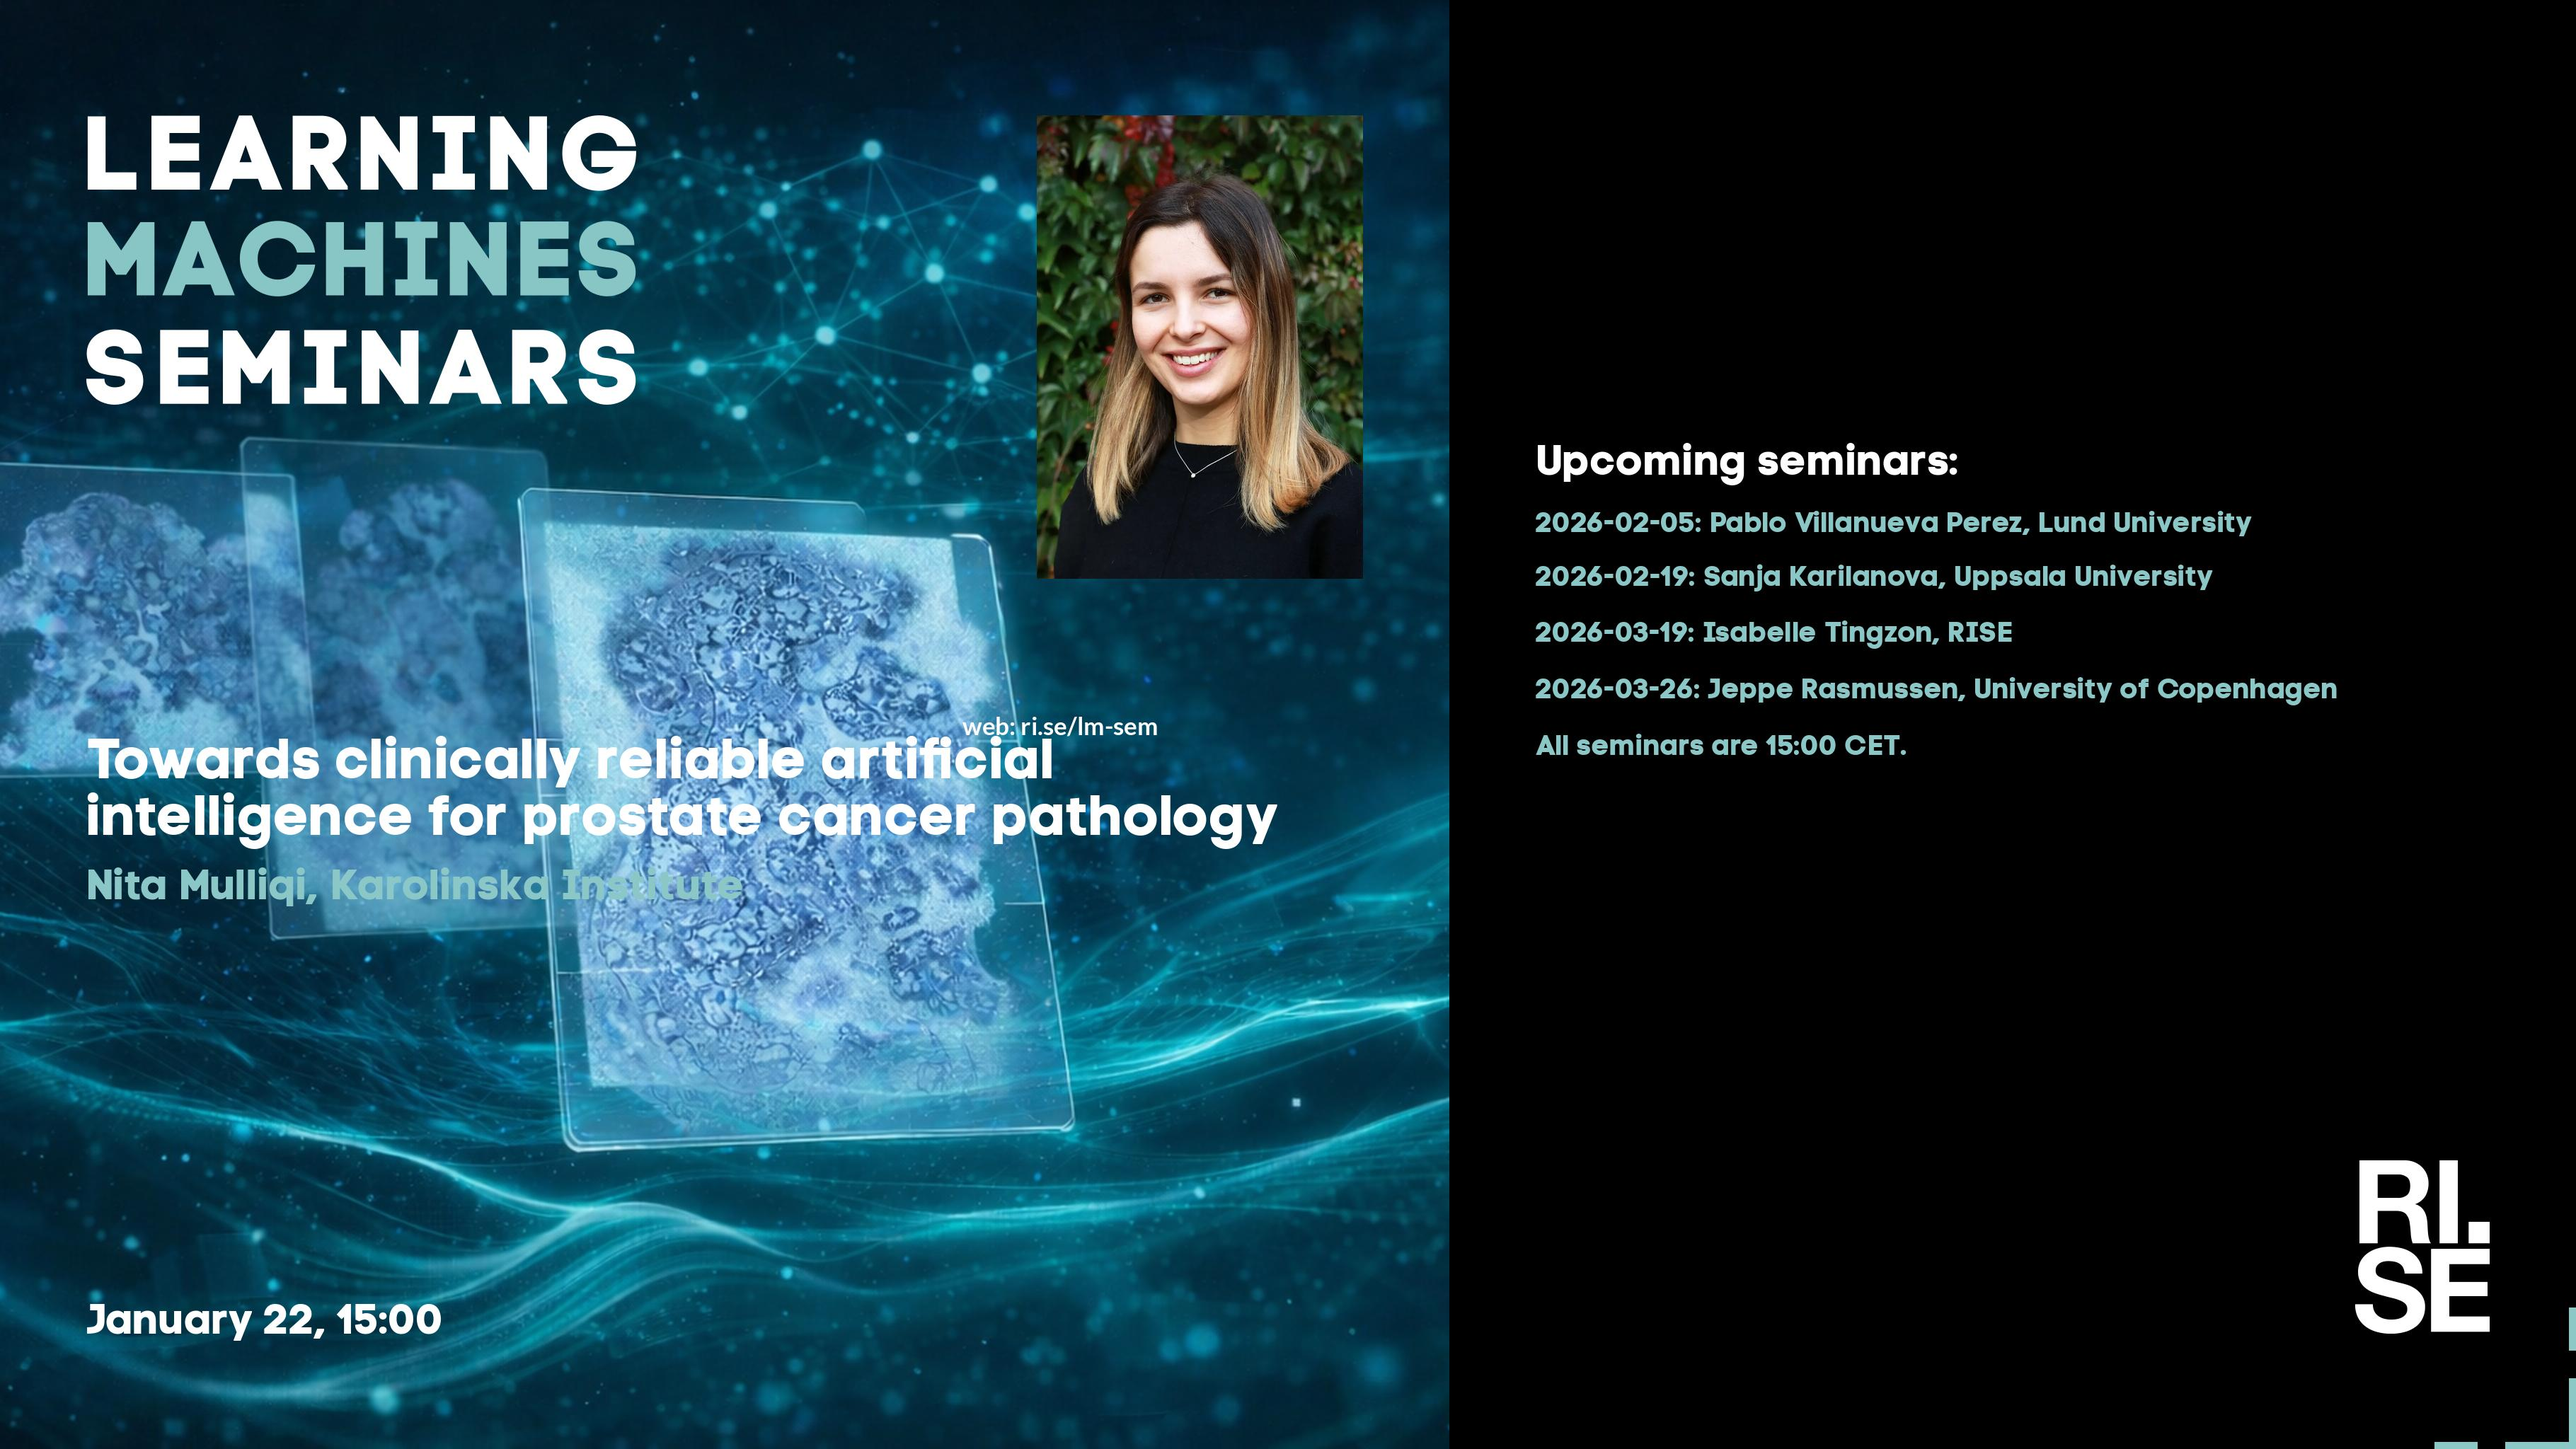
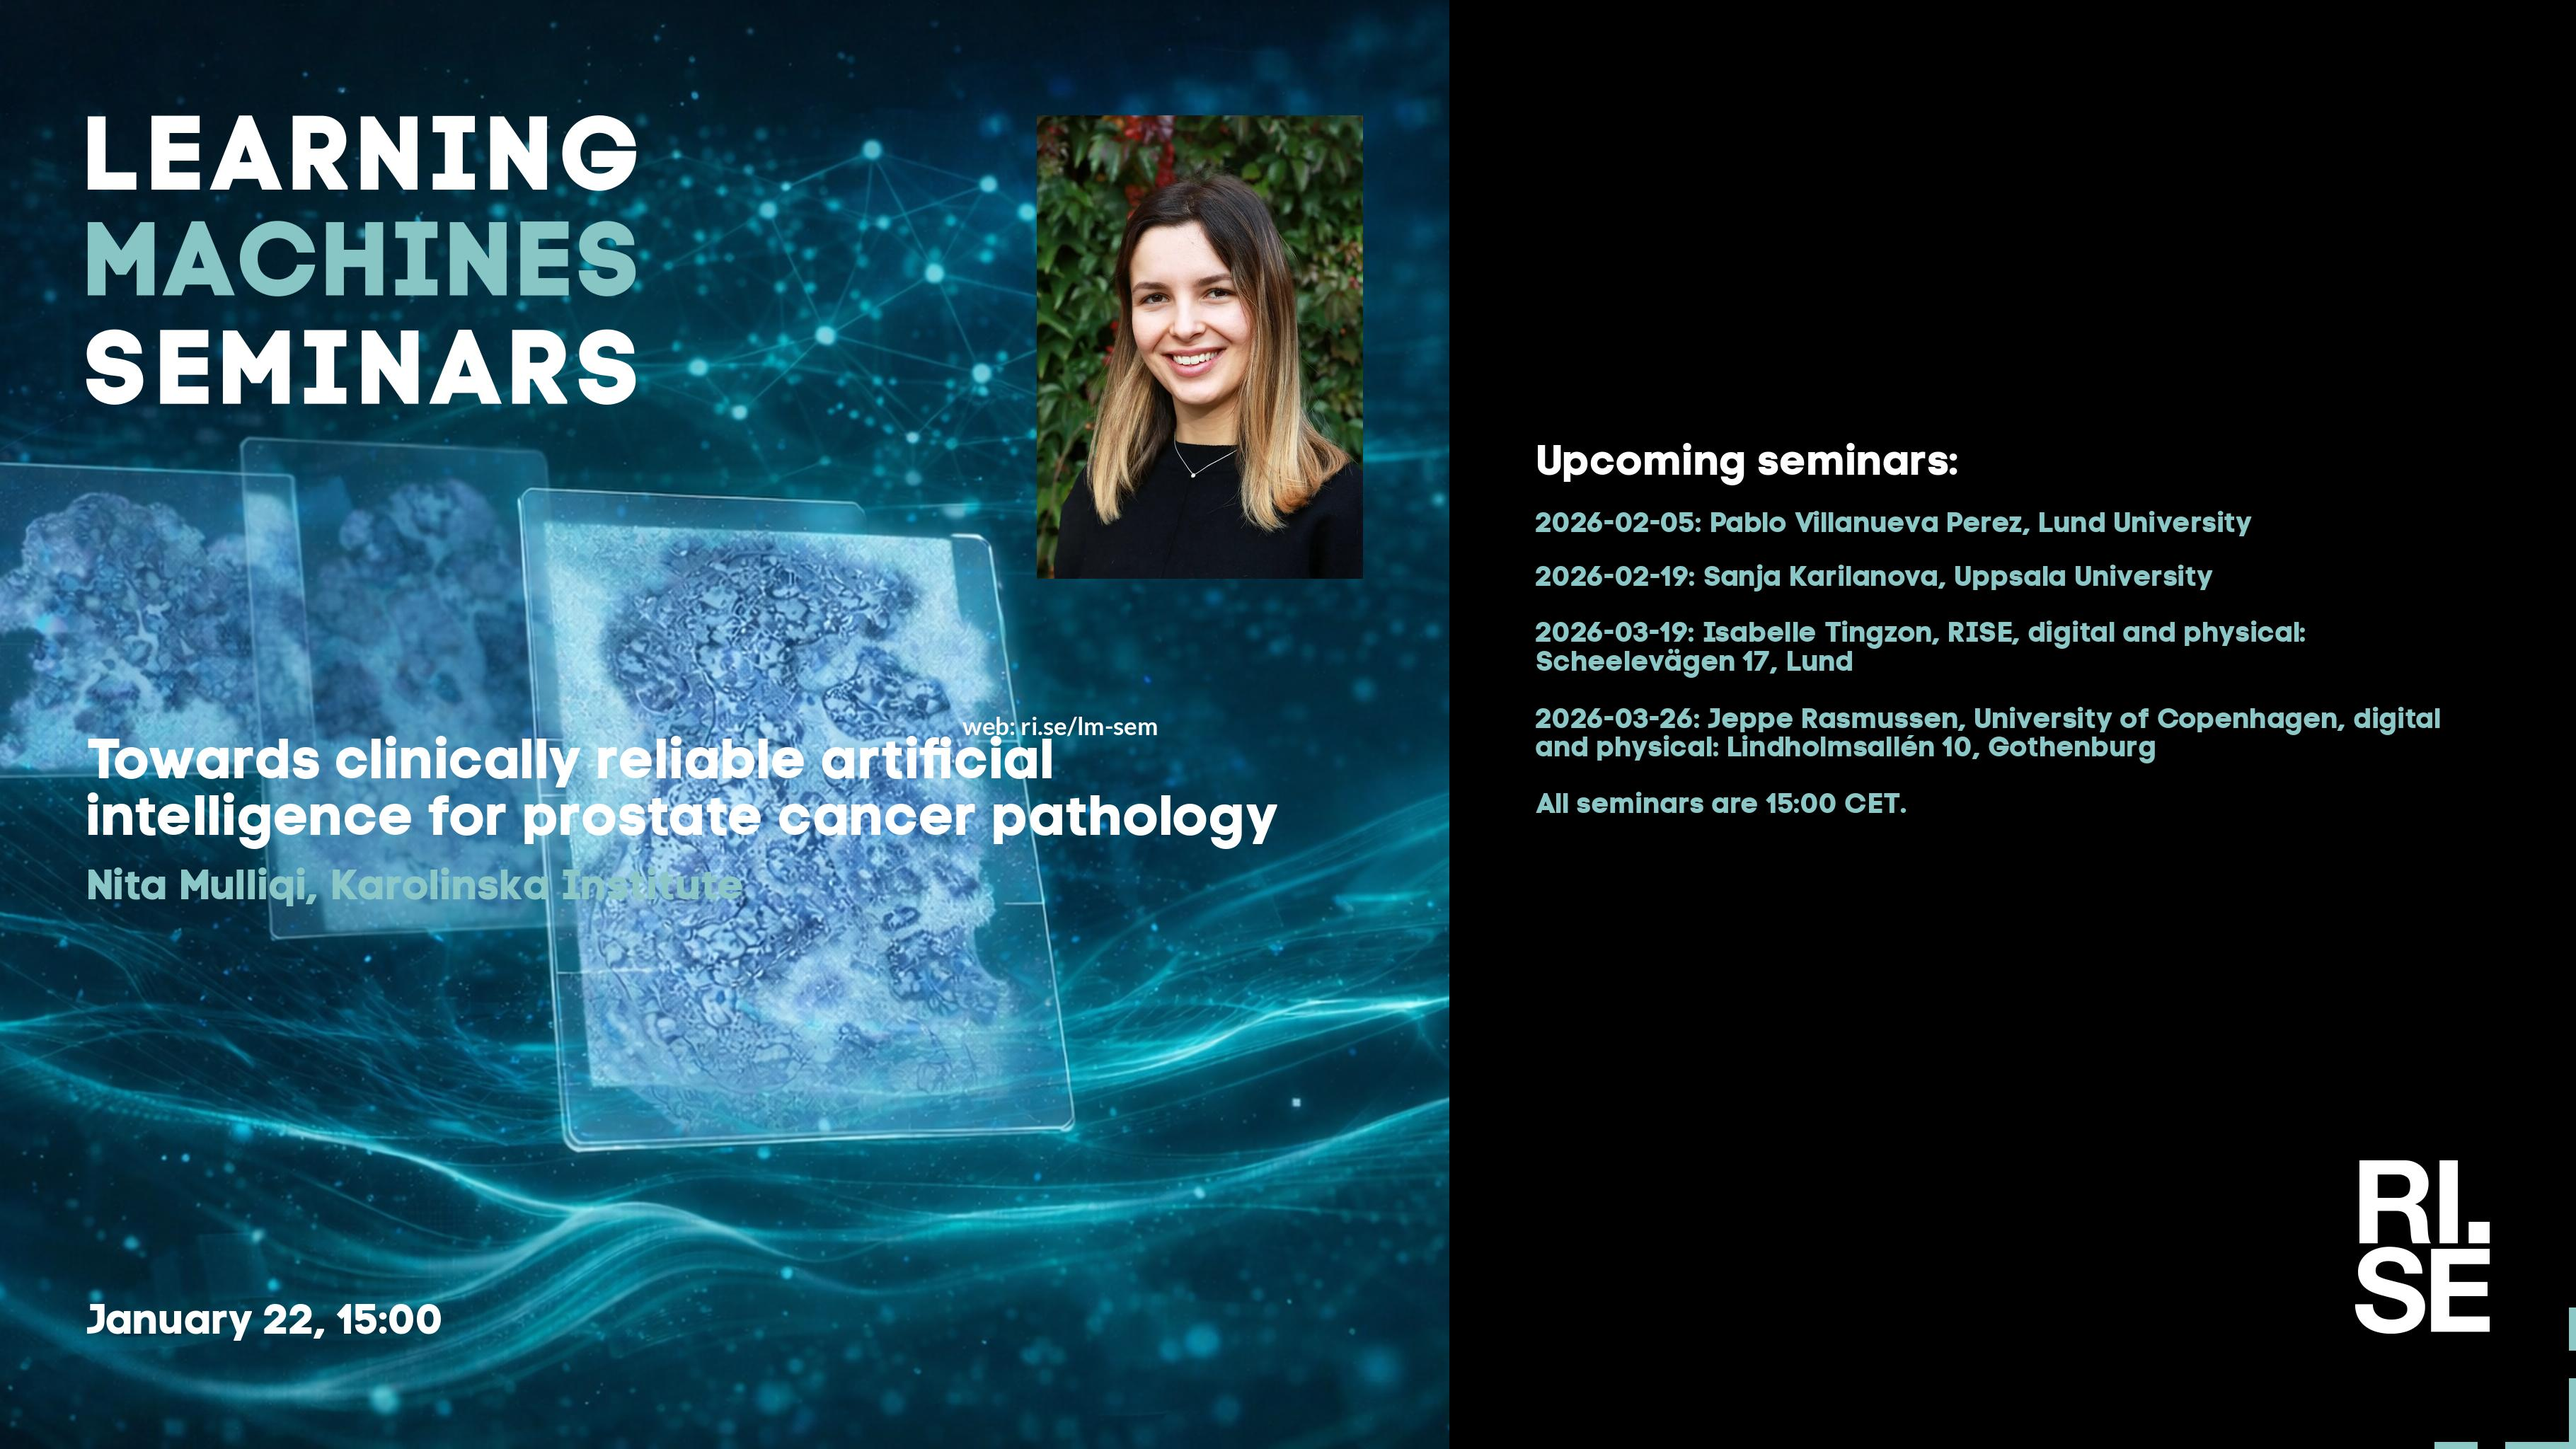
Updated plan on web site.

Changed region(s): [[0.5898, 0.4062, 0.9624, 0.5625]]

diff --git a/lm/2026.md b/lm/2026.md
@@ -12,7 +12,7 @@ table {border-collapse: collapse;}
 |  2026-01-22  |  [Nita Mulliqi, Karolinska Institute](2026-01-22.md)  |  [photo](2026-01-22-photo-nita-mulliqi.webp)  |  [social media bg ](2026-01-22-social-media-bg-nita-mulliqi.jpg) --- [social media photo ](2026-01-22-social-media-photo-nita-mulliqi.jpg) --- [social media 169 ](2026-01-22-social-media-169-nita-mulliqi.jpg)  |  [meeting backdrop ](2026-01-22-meeting-backdrop-nita-mulliqi.jpg)  |  [youtube thumbnail ](2026-01-22-youtube-thumbnail-nita-mulliqi.jpg)  |  STABP  |
 |  2026-02-05  |  [Pablo Villanueva Perez, Lund University](2026-02-05.md)  |  [photo](2026-02-05-photo-pablo-villanueva-perez.png)  |  [social media bg ](2026-02-05-social-media-bg-pablo-villanueva-perez.jpg) --- [social media photo ](2026-02-05-social-media-photo-pablo-villanueva-perez.jpg) --- [social media 169 ](2026-02-05-social-media-169-pablo-villanueva-perez.jpg)  |  [meeting backdrop ](2026-02-05-meeting-backdrop-pablo-villanueva-perez.jpg)  |  [youtube thumbnail ](2026-02-05-youtube-thumbnail-pablo-villanueva-perez.jpg)  |  STABP  |
 |  2026-02-19  |  [Sanja Karilanova, Uppsala University](2026-02-19.md)  |  [photo](2026-02-19-photo-sanja-karilanova.jpg)  |  [social media bg ](2026-02-19-social-media-bg-sanja-karilanova.jpg) --- [social media photo ](2026-02-19-social-media-photo-sanja-karilanova.jpg) --- [social media 169 ](2026-02-19-social-media-169-sanja-karilanova.jpg)  |  [meeting backdrop ](2026-02-19-meeting-backdrop-sanja-karilanova.jpg)  |  [youtube thumbnail ](2026-02-19-youtube-thumbnail-sanja-karilanova.jpg)  |  STABP  |
-| <span style="color:red"> 2026-03-05 </span> | <span style="color:red"> [Purnendu Sardar, Lund University](2026-03-05.md) </span> | <span style="color:red"> [photo](2026-03-05-photo-purnendu-sardar.png) </span> | <span style="color:red"> [social media bg ](2026-03-05-social-media-bg-purnendu-sardar.jpg) --- [social media photo ](2026-03-05-social-media-photo-purnendu-sardar.jpg) --- [social media 169 ](2026-03-05-social-media-169-purnendu-sardar.jpg) </span> | <span style="color:red"> [meeting backdrop ](2026-03-05-meeting-backdrop-purnendu-sardar.jpg) </span> | <span style="color:red"> [youtube thumbnail ](2026-03-05-youtube-thumbnail-purnendu-sardar.jpg) </span> | <span style="color:red"> CANCELLED </span> |
+| <span style="color:red"> 2026-03-05 </span> | <span style="color:red"> [unknown, Lund University](2026-03-05.md) </span> | <span style="color:red">  </span> | <span style="color:red">  ---  ---  </span> | <span style="color:red">  </span> | <span style="color:red">  </span> | <span style="color:red"> CANCELLED </span> |
 |  2026-03-19  |  [Isabelle Tingzon, RISE Research Institutes of Sweden](2026-03-19.md)  |  [photo](2026-03-19-photo-isabelle-tingzon.jpg)  |  [social media bg ](2026-03-19-social-media-bg-isabelle-tingzon.jpg) --- [social media photo ](2026-03-19-social-media-photo-isabelle-tingzon.jpg) --- [social media 169 ](2026-03-19-social-media-169-isabelle-tingzon.jpg)  |  [meeting backdrop ](2026-03-19-meeting-backdrop-isabelle-tingzon.jpg)  |  [youtube thumbnail ](2026-03-19-youtube-thumbnail-isabelle-tingzon.jpg)  |  STABP  |
 |  2026-03-26  |  [Jeppe Rasmussen, University of Copenhagen](2026-03-26.md)  |  [photo](2026-03-26-photo-jeppe-rasmussen.webp)  |  [social media bg ](2026-03-26-social-media-bg-jeppe-rasmussen.jpg) --- [social media photo ](2026-03-26-social-media-photo-jeppe-rasmussen.jpg) --- [social media 169 ](2026-03-26-social-media-169-jeppe-rasmussen.jpg)  |  [meeting backdrop ](2026-03-26-meeting-backdrop-jeppe-rasmussen.jpg)  |  [youtube thumbnail ](2026-03-26-youtube-thumbnail-jeppe-rasmussen.jpg)  |  STABP  |
 | <span style="color:red"> 2026-04-09 </span> | <span style="color:red"> Skärtorsdagen </span> | <span style="color:red">  </span> | <span style="color:red">  ---  ---  </span> | <span style="color:red">  </span> | <span style="color:red">  </span> | <span style="color:red"> CANCELLED </span> |

diff --git a/lm/index.md b/lm/index.md
@@ -12,7 +12,7 @@ table {border-collapse: collapse;}
 |  2026-01-22  |  [Nita Mulliqi, Karolinska Institute](2026-01-22.md)  |  [photo](2026-01-22-photo-nita-mulliqi.webp)  |  [social media bg ](2026-01-22-social-media-bg-nita-mulliqi.jpg) --- [social media photo ](2026-01-22-social-media-photo-nita-mulliqi.jpg) --- [social media 169 ](2026-01-22-social-media-169-nita-mulliqi.jpg)  |  [meeting backdrop ](2026-01-22-meeting-backdrop-nita-mulliqi.jpg)  |  [youtube thumbnail ](2026-01-22-youtube-thumbnail-nita-mulliqi.jpg)  |  STABP  |
 |  2026-02-05  |  [Pablo Villanueva Perez, Lund University](2026-02-05.md)  |  [photo](2026-02-05-photo-pablo-villanueva-perez.png)  |  [social media bg ](2026-02-05-social-media-bg-pablo-villanueva-perez.jpg) --- [social media photo ](2026-02-05-social-media-photo-pablo-villanueva-perez.jpg) --- [social media 169 ](2026-02-05-social-media-169-pablo-villanueva-perez.jpg)  |  [meeting backdrop ](2026-02-05-meeting-backdrop-pablo-villanueva-perez.jpg)  |  [youtube thumbnail ](2026-02-05-youtube-thumbnail-pablo-villanueva-perez.jpg)  |  STABP  |
 |  2026-02-19  |  [Sanja Karilanova, Uppsala University](2026-02-19.md)  |  [photo](2026-02-19-photo-sanja-karilanova.jpg)  |  [social media bg ](2026-02-19-social-media-bg-sanja-karilanova.jpg) --- [social media photo ](2026-02-19-social-media-photo-sanja-karilanova.jpg) --- [social media 169 ](2026-02-19-social-media-169-sanja-karilanova.jpg)  |  [meeting backdrop ](2026-02-19-meeting-backdrop-sanja-karilanova.jpg)  |  [youtube thumbnail ](2026-02-19-youtube-thumbnail-sanja-karilanova.jpg)  |  STABP  |
-| <span style="color:red"> 2026-03-05 </span> | <span style="color:red"> [Purnendu Sardar, Lund University](2026-03-05.md) </span> | <span style="color:red"> [photo](2026-03-05-photo-purnendu-sardar.png) </span> | <span style="color:red"> [social media bg ](2026-03-05-social-media-bg-purnendu-sardar.jpg) --- [social media photo ](2026-03-05-social-media-photo-purnendu-sardar.jpg) --- [social media 169 ](2026-03-05-social-media-169-purnendu-sardar.jpg) </span> | <span style="color:red"> [meeting backdrop ](2026-03-05-meeting-backdrop-purnendu-sardar.jpg) </span> | <span style="color:red"> [youtube thumbnail ](2026-03-05-youtube-thumbnail-purnendu-sardar.jpg) </span> | <span style="color:red"> CANCELLED </span> |
+| <span style="color:red"> 2026-03-05 </span> | <span style="color:red"> [unknown, Lund University](2026-03-05.md) </span> | <span style="color:red">  </span> | <span style="color:red">  ---  ---  </span> | <span style="color:red">  </span> | <span style="color:red">  </span> | <span style="color:red"> CANCELLED </span> |
 |  2026-03-19  |  [Isabelle Tingzon, RISE Research Institutes of Sweden](2026-03-19.md)  |  [photo](2026-03-19-photo-isabelle-tingzon.jpg)  |  [social media bg ](2026-03-19-social-media-bg-isabelle-tingzon.jpg) --- [social media photo ](2026-03-19-social-media-photo-isabelle-tingzon.jpg) --- [social media 169 ](2026-03-19-social-media-169-isabelle-tingzon.jpg)  |  [meeting backdrop ](2026-03-19-meeting-backdrop-isabelle-tingzon.jpg)  |  [youtube thumbnail ](2026-03-19-youtube-thumbnail-isabelle-tingzon.jpg)  |  STABP  |
 |  2026-03-26  |  [Jeppe Rasmussen, University of Copenhagen](2026-03-26.md)  |  [photo](2026-03-26-photo-jeppe-rasmussen.webp)  |  [social media bg ](2026-03-26-social-media-bg-jeppe-rasmussen.jpg) --- [social media photo ](2026-03-26-social-media-photo-jeppe-rasmussen.jpg) --- [social media 169 ](2026-03-26-social-media-169-jeppe-rasmussen.jpg)  |  [meeting backdrop ](2026-03-26-meeting-backdrop-jeppe-rasmussen.jpg)  |  [youtube thumbnail ](2026-03-26-youtube-thumbnail-jeppe-rasmussen.jpg)  |  STABP  |
 | <span style="color:red"> 2026-04-09 </span> | <span style="color:red"> Skärtorsdagen </span> | <span style="color:red">  </span> | <span style="color:red">  ---  ---  </span> | <span style="color:red">  </span> | <span style="color:red">  </span> | <span style="color:red"> CANCELLED </span> |

diff --git a/lm/2026-01-22.md b/lm/2026-01-22.md
@@ -26,8 +26,8 @@ Overall, this work outlines a pathway toward robust, efficient and clinically va
 
 * 2026-02-05: Pablo Villanueva Perez, Lund University
 * 2026-02-19: Sanja Karilanova, Uppsala University
-* 2026-03-19: Isabelle Tingzon, RISE
-* 2026-03-26: Jeppe Rasmussen, University of Copenhagen
+* 2026-03-19: Isabelle Tingzon, RISE, **digital and physical: Scheelevägen 17, Lund**
+* 2026-03-26: Jeppe Rasmussen, University of Copenhagen, **digital and physical: Lindholmsallén 10, Gothenburg**
 * All seminars are 15:00 CET.
 
 More information and coming seminars: [https://ri.se/lm-sem](https://ri.se/lm-sem)
